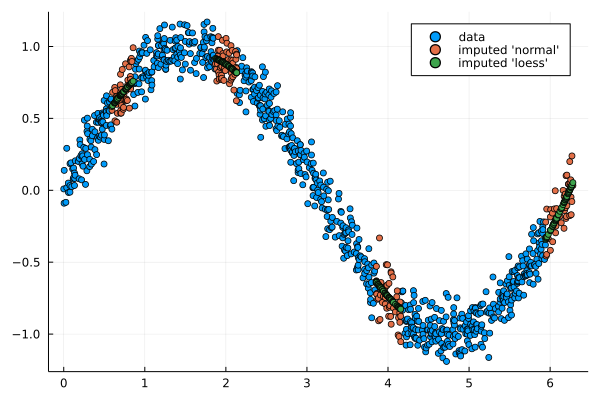
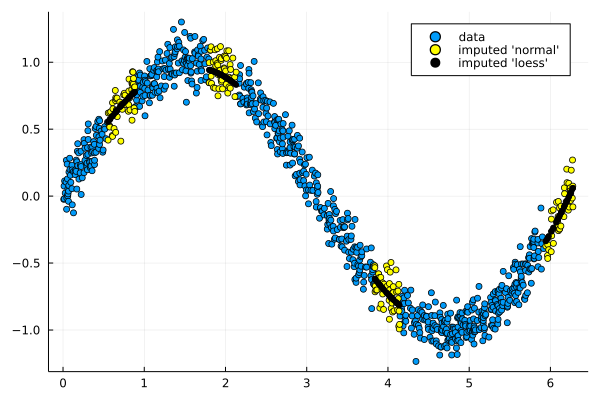
update README

diff --git a/README.md b/README.md
@@ -21,14 +21,15 @@ x = sort(rand(n))*2*pi;
 y = Array{Union{Missing,Float64}}(undef,n);
 y[:] = sin.(x).+randn(n)/10;
 mid = vcat(100:150,300:350,600:650,950:1000);
+
 y[mid] .= missing;
 scatter(x,y; label="data")
 
 ipy = impute(x,y; method = "normal")
-scatter!(x[mid],ipy[mid]; label = "imputed 'normal'")
+scatter!(x[mid],ipy[mid]; label = "imputed 'normal'", color=:yellow)
 
 ipy = impute(x,y)
-scatter!(x[mid],ipy[mid]; label = "imputed 'loess'")
+scatter!(x[mid],ipy[mid]; label = "imputed 'loess'", color=:black)
 ```
 <img src="./docs/src/images/impute.png">
 
